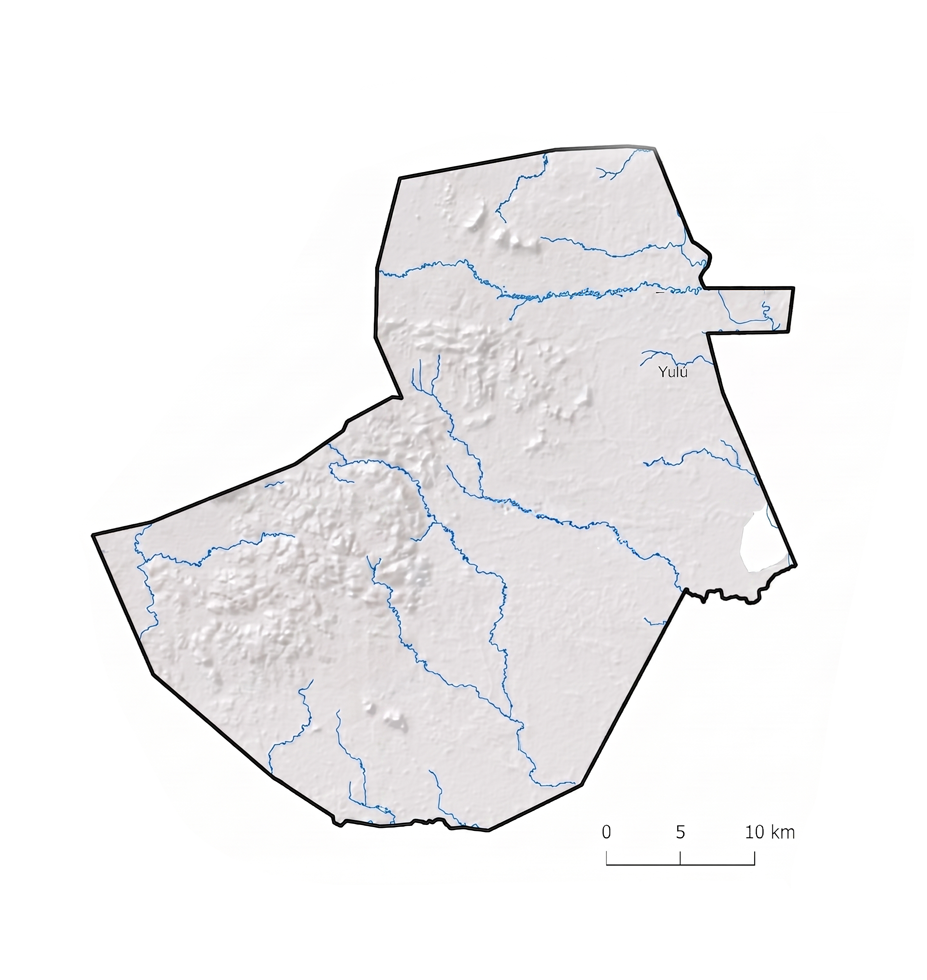
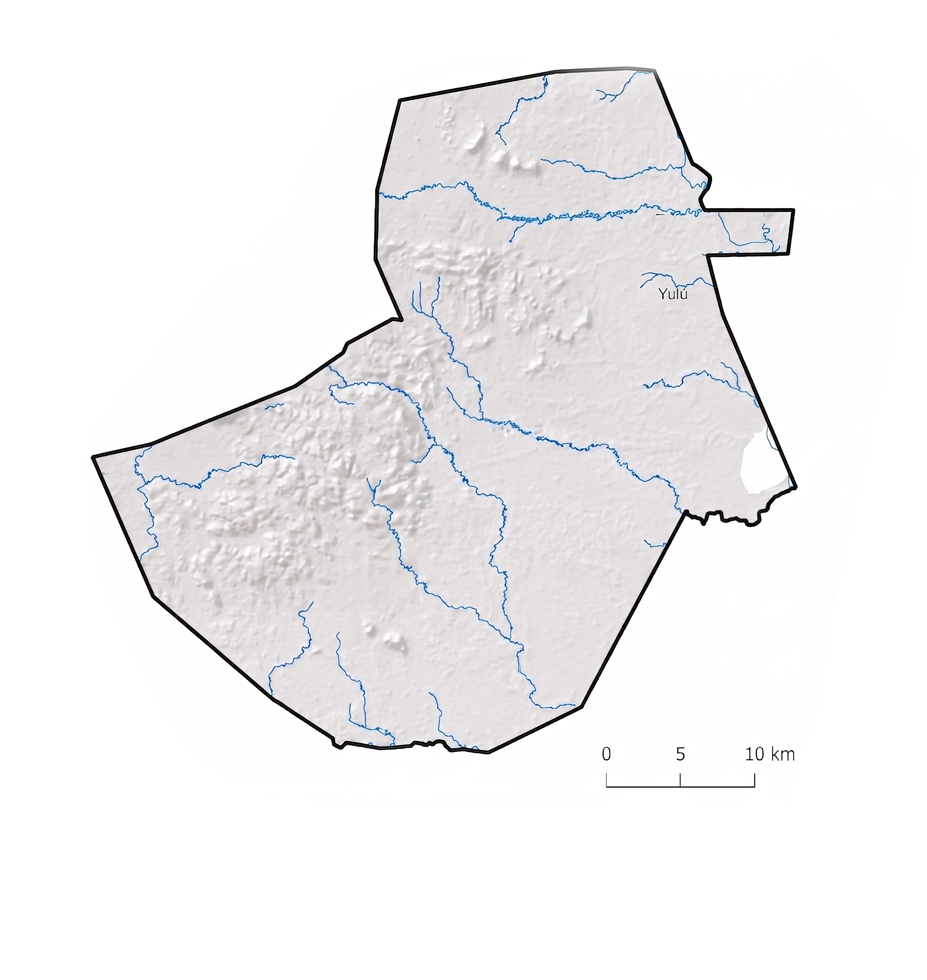
feat(waupasa): add responsive concessions overlay panel and breakpoint refinement

diff --git a/css/diptico.css b/css/diptico.css
@@ -279,38 +279,76 @@
   font-family: 'Sora', sans-serif;
 }
 
-/* ─── Concesiones ──────────────────────────────────────────────────────────── */
+/* ─── Panel informativo de concesiones sobre mapa ─────────────────────────── */
 
-.diptico__seccion-titulo {
+.diptico__concesiones--mapa {
+  position: absolute;
+  left: clamp(12px, 2vw, 24px);
+  bottom: clamp(12px, 2vw, 24px);
+  z-index: 5;
+  width: min(760px, calc(100% - 48px));
+  max-height: min(42vh, 360px);
+  overflow: auto;
+  background: rgba(255, 255, 255, 0.92);
+  backdrop-filter: blur(6px);
+  border: 0.5px solid var(--border-subtle);
+  border-radius: var(--radius-md, 8px);
+  padding: 12px;
   font-family: 'Sora', sans-serif;
-  font-size: 10px;
-  font-weight: 600;
-  letter-spacing: 0.08em;
-  text-transform: uppercase;
-  color: var(--text-color-secondary);
-  margin-bottom: 0.75rem;
+}
+
+.diptico__concesiones--mapa .diptico__seccion-titulo {
+  margin-bottom: 8px;
+}
+
+.diptico__toggle-concesiones {
+  width: 100%;
+  border: 0;
+  background: transparent;
+  display: flex;
+  justify-content: space-between;
+  align-items: center;
+  cursor: pointer;
+  padding: 0;
+}
+
+.diptico__toggle-concesiones span {
+  display: none;
+}
+
+@media (max-width: 767px) {
+  .diptico__toggle-concesiones span {
+    display: inline;
+    font-size: 9px;
+    color: var(--text-color-tertiary);
+  }
 }
 
 .concesiones-lista {
-  display: flex;
-  flex-direction: column;
-  gap: 8px;
-  margin-bottom: 2rem;
+  display: grid;
+  grid-template-columns: repeat(3, minmax(0, 1fr));
+  gap: 6px;
+  margin-bottom: 0;
 }
 
 .concesion-card {
   border: 0.5px solid var(--border-subtle);
-  border-radius: var(--radius-md, 8px);
-  padding: 0.75rem 1rem;
+  border-radius: var(--radius-sm, 4px);
+  padding: 6px 8px;
   display: grid;
-  grid-template-columns: auto 1fr auto;
+  grid-template-columns: auto minmax(0, 1fr) auto;
   align-items: center;
-  gap: 12px;
+  gap: 8px;
+  background: rgba(255,255,255,0.72);
+  transition:
+    border-color 160ms ease,
+    background 160ms ease,
+    transform 160ms ease;
 }
 
 .concesion-card__patron {
-  width: 20px;
-  height: 20px;
+  width: 16px;
+  height: 16px;
   border-radius: 3px;
   flex-shrink: 0;
   border: 1px solid rgba(0,0,0,0.12);
@@ -318,22 +356,24 @@
 
 .concesion-card__nombre {
   font-family: 'Sora', sans-serif;
-  font-size: 13px;
-  font-weight: 500;
+  font-size: 12px;
+  font-weight: 600;
+  line-height: 1.2;
   color: var(--text-color-primary);
 }
 
 .concesion-card__empresa {
-  font-size: 12px;
+  font-size: 10px;
+  line-height: 1.25;
   color: var(--text-color-secondary);
-  margin-top: 2px;
+  margin-top: 1px;
 }
 
 .concesion-card__badge {
   font-family: 'Sora', sans-serif;
-  font-size: 10px;
+  font-size: 9px;
   font-weight: 600;
-  padding: 3px 8px;
+  padding: 3px 7px;
   border-radius: 999px;
   white-space: nowrap;
 }
@@ -385,7 +425,7 @@
 /* ─── Responsive ───────────────────────────────────────────────────────────── */
 
 /* Tablet landscape: conservar díptico */
-@media (min-width: 768px) and (max-width: 1199px) {
+@media (min-width: 768px) and (max-width: 977px) {
   .diptico[data-layout="A"] {
     grid-template-columns: 58fr 42fr;
   }
@@ -409,6 +449,18 @@
     border-top: none;
     padding: 2rem 1.5rem;
     overflow-y: auto;
+  }
+
+  .diptico__concesiones--mapa {
+    width: min(620px, calc(100% - 32px));
+    max-height: 38vh;
+    left: 16px;
+    bottom: 16px;
+    padding: 10px;
+  }
+
+  .concesiones-lista {
+    grid-template-columns: repeat(2, minmax(0, 1fr));
   }
 }
 
@@ -450,6 +502,46 @@
     margin-inline: auto;
   }
 
+  .diptico__concesiones--mapa {
+    position: relative;
+    left: auto;
+    bottom: auto;
+    width: 100%;
+    max-height: none;
+    margin-top: 12px;
+    padding: 10px;
+    background: var(--background-page);
+    backdrop-filter: none;
+  }
+
+  .concesiones-lista {
+    grid-template-columns: repeat(2, minmax(0, 1fr));
+  }
+
+  .diptico__concesiones--mapa.is-collapsed .concesiones-lista {
+    display: none;
+  }
+
+  .concesion-card {
+    grid-template-columns: auto minmax(0, 1fr);
+    align-items: start;
+    padding: 8px 10px;
+  }
+
+  .concesion-card__badge {
+    grid-column: 2;
+    justify-self: start;
+    margin-top: 2px;
+  }
+
+  .concesion-card__nombre {
+    font-size: 11px;
+  }
+
+  .concesion-card__empresa {
+    font-size: 9px;
+  }
+
   .mapa-editorial object {
     width: 100%;
     display: block;
@@ -475,6 +567,18 @@ body[data-territorio="03-waupasa-twi"] .diptico__leyenda-mapa {
 }
 
 @media (max-width: 480px) {
+  .diptico__concesiones--mapa {
+    padding: 8px;
+  }
+
+  .concesiones-lista {
+    gap: 5px;
+  }
+
+  .concesion-card {
+    padding: 7px;
+  }
+
   .diptico__stats {
     grid-template-columns: 1fr 1fr;
   }
@@ -566,8 +670,8 @@ body[data-territorio="03-waupasa-twi"] .diptico__leyenda-mapa {
 
 .concesion-card--activa {
   border-color: var(--brand-main);
-  background: var(--background-subtle);
-  transform: translateX(2px);
+  background: var(--feedback-success-bg);
+  transform: translateY(-1px);
 }
 
 .pais-btn--activo {

diff --git a/js/render-diptico.js b/js/render-diptico.js
@@ -7,7 +7,7 @@ import {
 function getBreakpoint() {
   const width = window.innerWidth;
   if (width <= 767) return "mobile";
-  if (width <= 1199) return "tablet";
+  if (width <= 977) return "tablet";
   return "desktop";
 }
 
@@ -18,6 +18,15 @@ window.addEventListener("resize", () => {
 
   if (current !== lastBreakpoint) {
     lastBreakpoint = current;
+
+    const panel = document.querySelector(".diptico__concesiones--mapa");
+    if (panel) {
+      if (current === "mobile") {
+        panel.classList.add("is-collapsed");
+      } else {
+        panel.classList.remove("is-collapsed");
+      }
+    }
 
     const id = document.body.dataset.territorio;
     const territorio = getTerritorio(id);
@@ -62,6 +71,7 @@ async function init() {
     renderConcesiones(territorio);
     renderFuente(territorio);
     renderInsets(territorio);
+    initToggleConcesiones();
   } catch (err) {
     console.error(err);
   }
@@ -281,6 +291,21 @@ function renderInsets(t) {
       container.appendChild(el);
     });
   }
+}
+
+function initToggleConcesiones() {
+  const panel = document.querySelector(".diptico__concesiones--mapa");
+  const btn = document.querySelector(".diptico__toggle-concesiones");
+
+  if (!panel || !btn) return;
+
+  if (getBreakpoint() === "mobile") {
+    panel.classList.add("is-collapsed");
+  }
+
+  btn.addEventListener("click", () => {
+    panel.classList.toggle("is-collapsed");
+  });
 }
 
 document.addEventListener("DOMContentLoaded", init);

diff --git a/templates/diptico-base.html b/templates/diptico-base.html
@@ -11,6 +11,15 @@
         <div id="mapa-svg-inline" class="mapa-svg-inline"></div>
       </div>
     </div>
+
+    <div class="diptico__concesiones diptico__concesiones--mapa">
+      <button class="diptico__seccion-titulo diptico__toggle-concesiones" type="button">
+        Detalle de concesiones
+        <span>Mostrar / ocultar</span>
+      </button>
+      <div class="concesiones-lista" id="concesiones-lista"></div>
+    </div>
+
     <div id="insets-container"></div>
     <div id="escala-text" class="diptico__escala"></div>
 
@@ -42,11 +51,6 @@
     </div>
 
     <div class="diptico__narrativa" id="descripcion-text"></div>
-
-    <div class="diptico__concesiones">
-      <div class="diptico__seccion-titulo">Detalle de concesiones</div>
-      <div class="concesiones-lista" id="concesiones-lista"></div>
-    </div>
 
     <div class="diptico__fuente" id="fuente-text"></div>
   </div>
